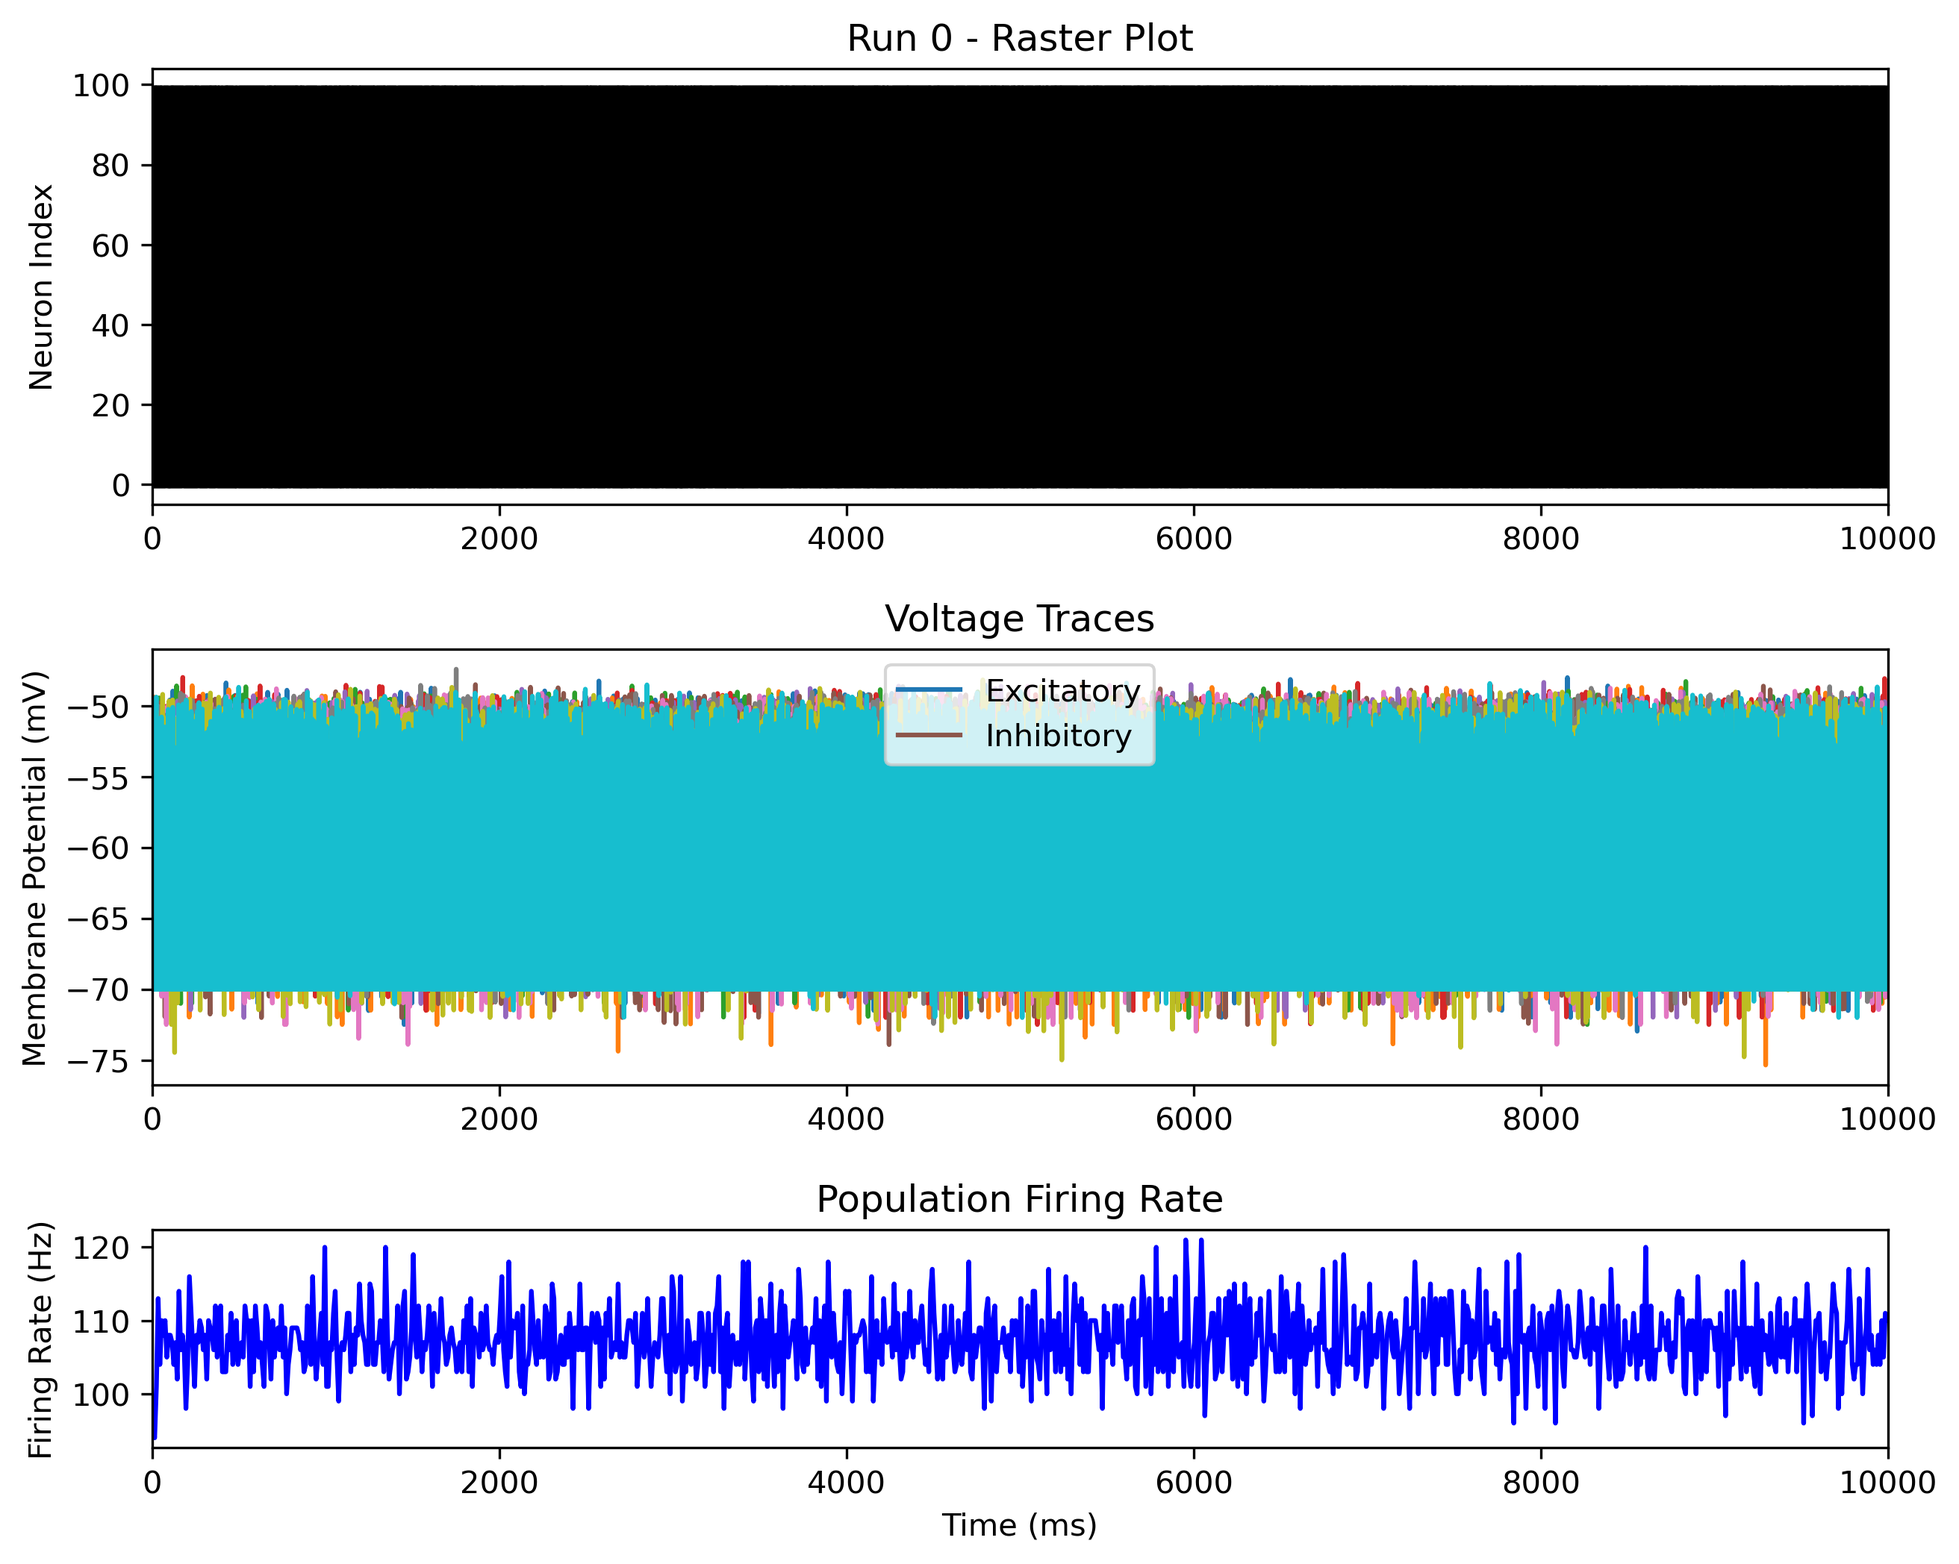
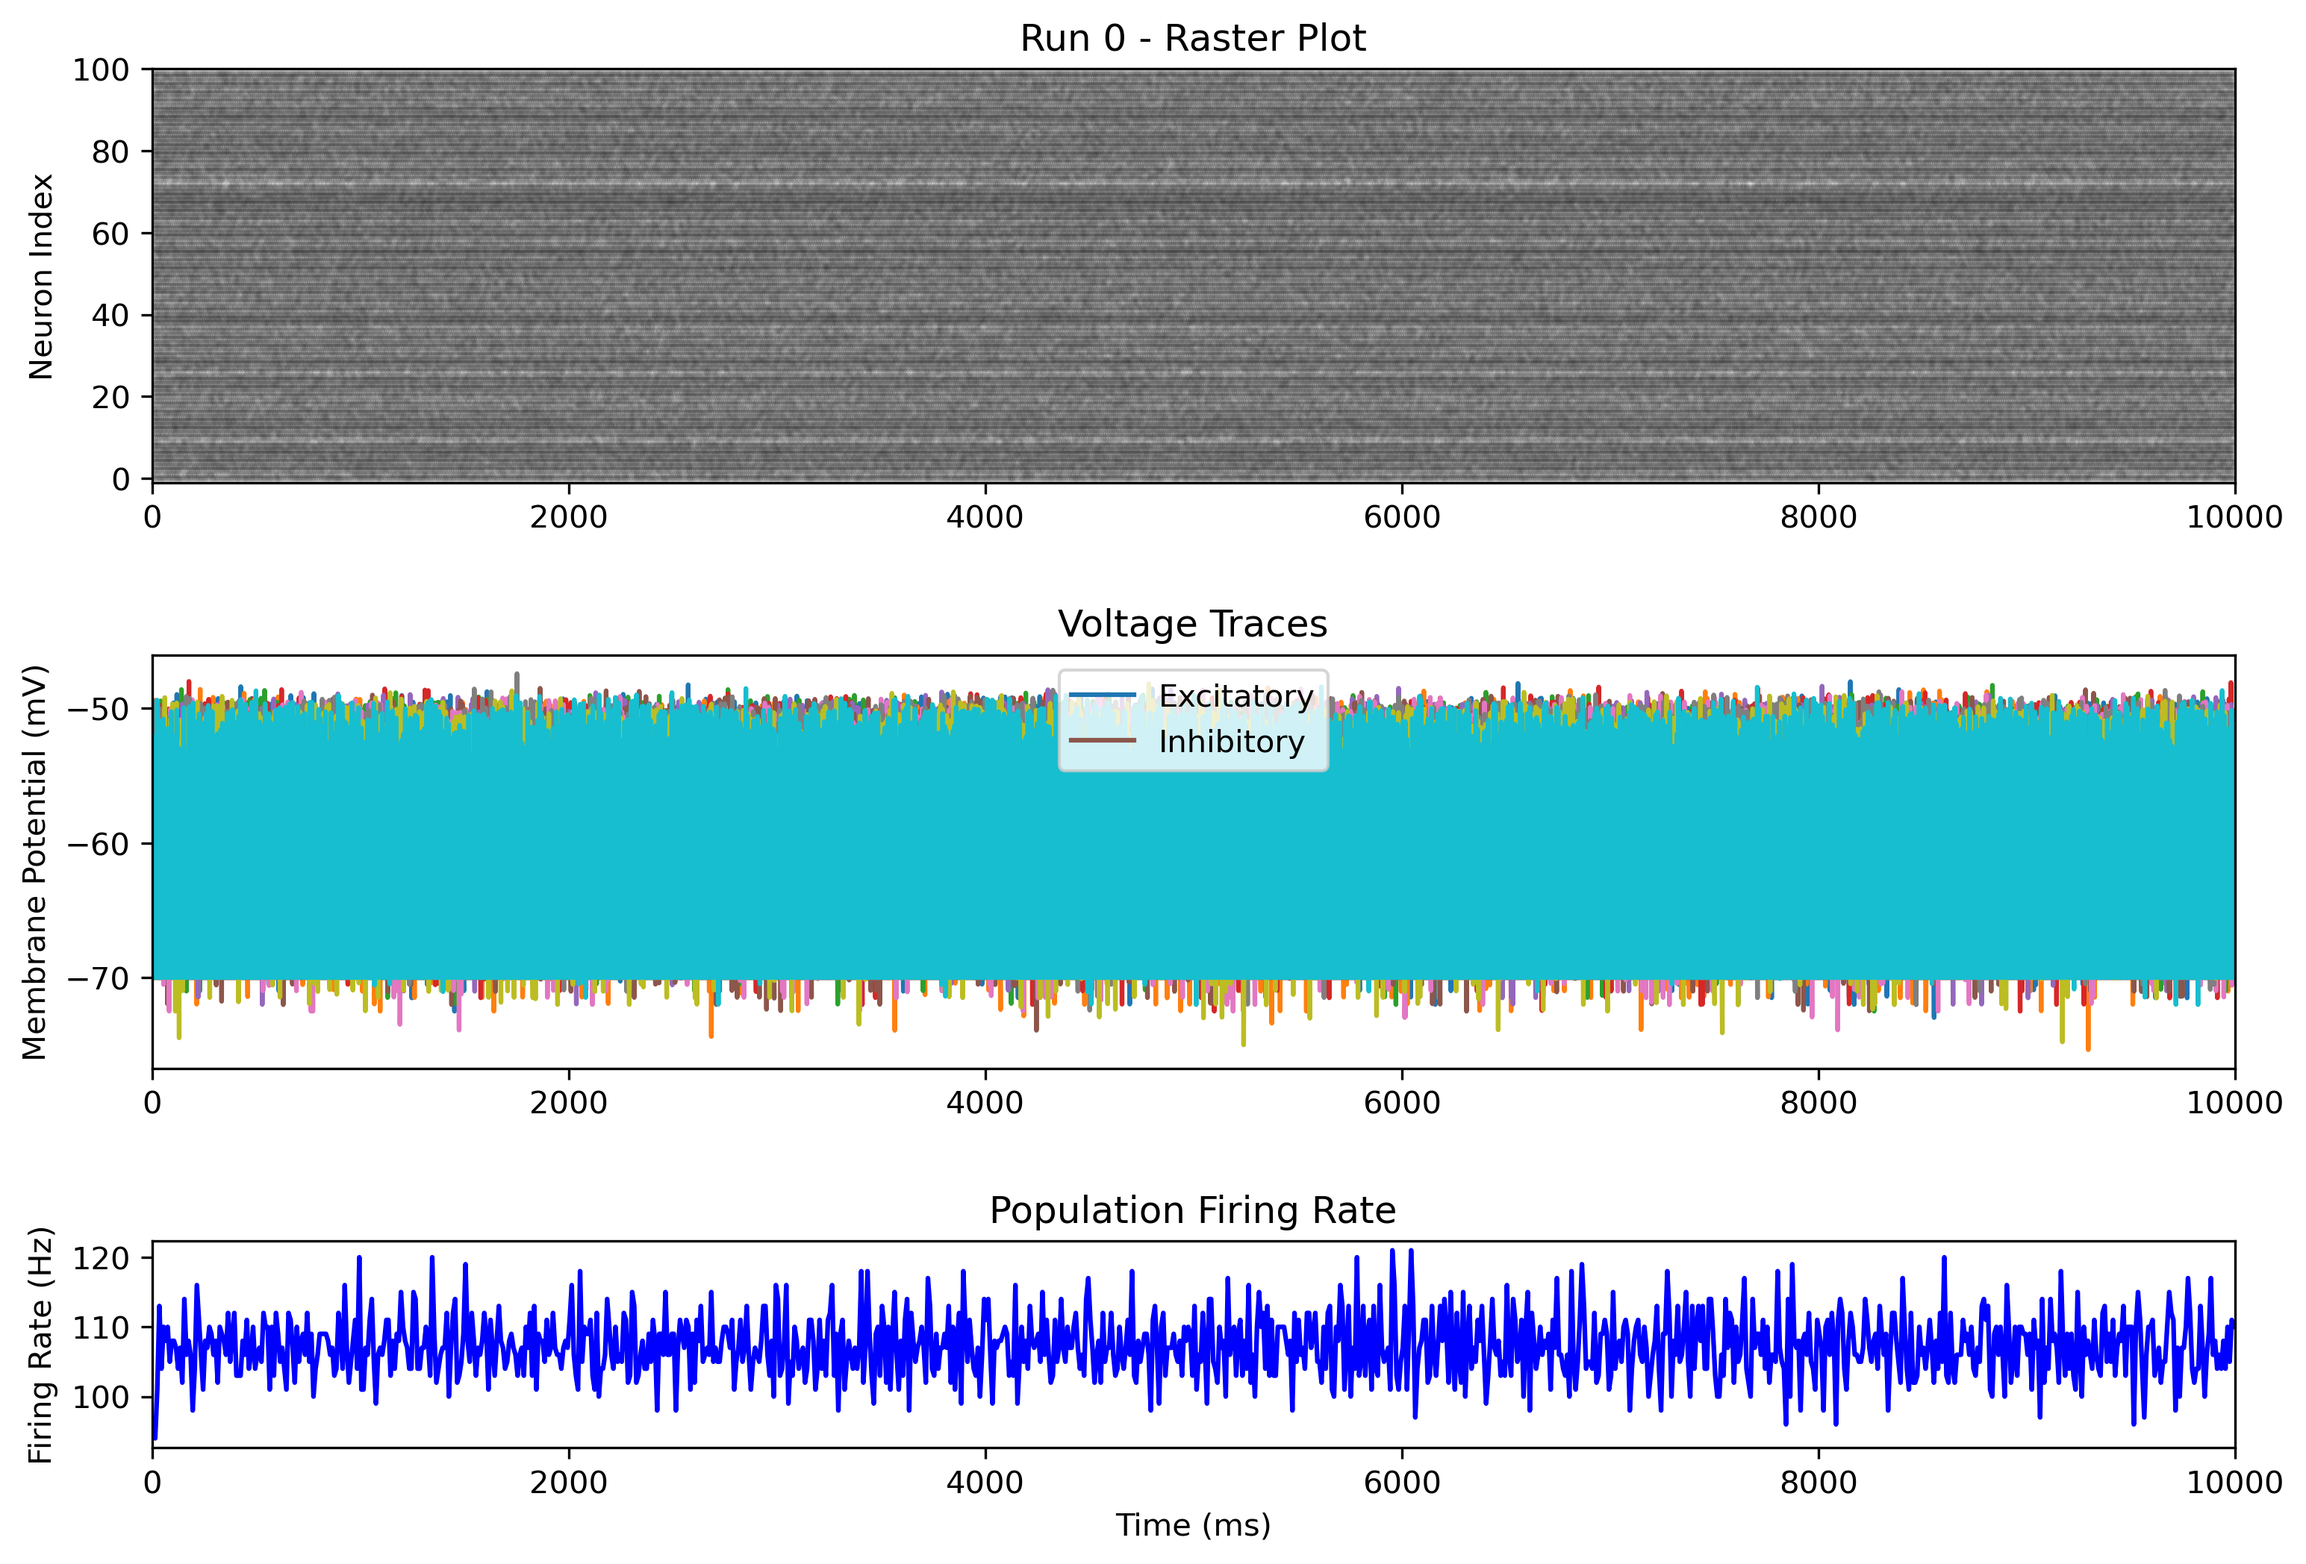
visualization updated

diff --git a/data/visualize_brunel_data.py b/data/visualize_brunel_data.py
@@ -15,6 +15,7 @@ voltage_data = np.loadtxt(f'{output_dir}/run_{run_id}_voltages.dat')
 # Extract spike times and neuron indices
 spike_times = spike_data[:, 0]  # Time in ms
 spike_neurons = spike_data[:, 1]  # Neuron indices
+print(f"Spike data shape: {spike_data.shape}, Voltage data shape: {voltage_data.shape}")
 
 # Extract voltage data
 times = voltage_data[:, 0]  # Time in ms
@@ -31,15 +32,16 @@ firing_rate = spike_counts / (bin_size / 1000) / 100  # Spikes/s/neuron
 bin_centers = (bins[:-1] + bins[1:]) / 2
 
 # Create figure with three subplots
-fig = plt.figure(figsize=(10, 8))
-gs = fig.add_gridspec(nrows=3, hspace=0.4, height_ratios=[2, 2, 1])
+fig = plt.figure(figsize=(12, 8))
+gs = fig.add_gridspec(nrows=3, hspace=0.5, height_ratios=[2, 2, 1])
 
-# Raster plot
+# Raster plot with transparency and data range check
 ax_raster = fig.add_subplot(gs[0])
-ax_raster.scatter(spike_times, spike_neurons, s=2, color='black')
+ax_raster.scatter(spike_times, spike_neurons, s=2, color='black', alpha=0.1)  # Added alpha for visibility
 ax_raster.set_ylabel('Neuron Index')
 ax_raster.set_title(f'Run {run_id} - Raster Plot')
 ax_raster.set_xlim(0, 10000)  # 10 seconds in ms
+ax_raster.set_ylim(-1, 100)  # Ensure all 100 neurons are visible
 
 # Voltage traces
 ax_voltages = fig.add_subplot(gs[1], sharex=ax_raster)
@@ -57,6 +59,6 @@ ax_rate.set_xlabel('Time (ms)')
 ax_rate.set_ylabel('Firing Rate (Hz)')
 ax_rate.set_title('Population Firing Rate')
 
-# Save visualization
+# Save visualization with adjusted size
 plt.savefig(f'{vis_dir}/run_{run_id}_visualization.png', dpi=300, bbox_inches='tight')
 plt.close()

diff --git a/data/brunel_2000_modified.py b/data/brunel_2000_modified.py
@@ -6,7 +6,7 @@ import os
 
 # Set simulation parameters
 sim_time = 10 * second  # Simulation duration set to 10 seconds
-run_ids = range(50)     # Number of experimental runs
+run_ids = range(3)     # Number of experimental runs
 output_dir = 'output'   # Define subfolder name for saving files
 os.makedirs(output_dir, exist_ok=True)  # Create output subfolder if it doesn't exist
 
